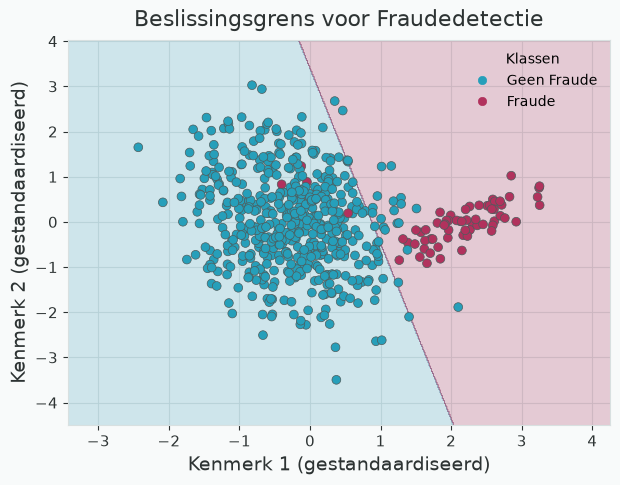
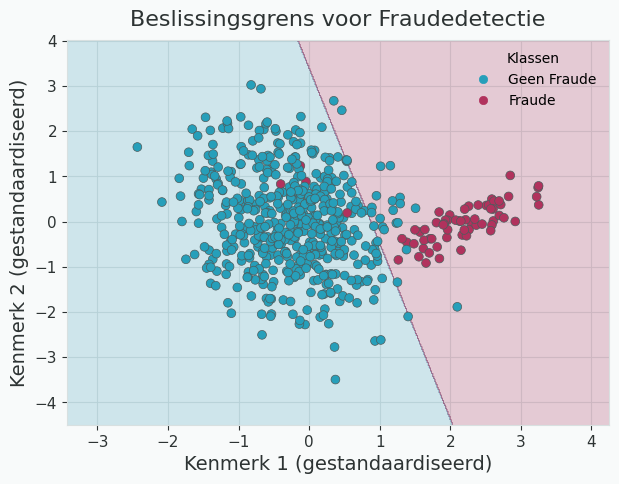
updated structure to create other things programmatically

diff --git a/CCPlots/config/palette.py b/CCPlots/config/palette.py
@@ -2,7 +2,9 @@
 ``CCPlots.config.palette`` — Bitroot colour palette and visual styling tools.
 
 **What this controls:**
-- The shared colour palette (``BITROOT_PALETTE``) used by every plot.
+- The shared colour palette (``BITROOT_PALETTE``) used by every plot.  The
+  palette is loaded from ``bitroot.json`` (the single source of truth derived
+  from the Bitroot design system).
 - Colour derivation helpers (``tint_color``, ``shade_color``).
 - The ``apply_bitroot_style()`` function that applies Bitroot theme defaults
   (background, grid, spine colours, tick parameters) to a matplotlib Axes.
@@ -14,27 +16,29 @@ Approach to colouring implemented from: https://maketintsandshades.com/about/.
 
 **Scope: global.** Changes here affect every plot in the library.
 Use ``CCPlots/plot_configs/*.json`` to tweak per-example settings instead.
+
+To add or update a colour, edit ``bitroot.json`` — do NOT hard-code hex values
+in this module.
 """
 
+import json
+import os
 import re
 import matplotlib.colors as mcolors
 import matplotlib.pyplot as plt
 
+# ── Load palette from the shared JSON config ──────────────────────────────
+
+_CONFIG_PATH = os.path.join(os.path.dirname(__file__), "bitroot.json")
+
+with open(_CONFIG_PATH, encoding="utf-8") as _f:
+    _BITROOT_CONFIG = json.load(_f)
+
+_COLORS: dict[str, dict[str, str]] = _BITROOT_CONFIG["colors"]
+
+# Build the flat hex dict from the canonical DESIGN.md colour names.
 BITROOT_PALETTE: dict[str, str] = {
-    "primary": "#269FBA",
-    "secondary": "#5C78D9",
-    "tertiary": "#A3D979",
-    "highlight": "#B1325D",
-    "success": "#3DB873",
-    "warning": "#D4A843",
-    "error": "#C94A3E",
-    "info": "#4D8FC9",
-    "text": "#2D3333",
-    "secondary_text": "#4D5C5C",
-    "background": "#F8FAFA",
-    "card_background": "#FFFFFF",
-    "white": "#F2F5F5",
-    "grid": "#D8E0E0",
+    name: entry["hex"] for name, entry in _COLORS.items()
 }
 
 _TINT_RE = re.compile(r"^(\w+)@tint\(([\d.]+)\)$")
@@ -112,7 +116,7 @@ def contrasting_text_color(bg_color: str,
         Otherwise uses the 4.5:1 normal-text threshold.
     """
     bg = resolve_palette_key(bg_color)
-    dk = resolve_palette_key(dark_text) if dark_text else BITROOT_PALETTE["text"]
+    dk = resolve_palette_key(dark_text) if dark_text else BITROOT_PALETTE["on-surface"]
     lt = resolve_palette_key(light_text) if light_text else BITROOT_PALETTE["white"]
 
     ratio_dk = _contrast_ratio(bg, dk)
@@ -180,9 +184,9 @@ def apply_bitroot_style(ax=None, *, background=None, text=None, grid=None, title
     if ax is None:
         ax = plt.gca()
 
-    _bg = resolve_palette_key(background) if background else BITROOT_PALETTE["background"]
-    _text = resolve_palette_key(text) if text else BITROOT_PALETTE["text"]
-    _grid = resolve_palette_key(grid) if grid else BITROOT_PALETTE["grid"]
+    _bg = resolve_palette_key(background) if background else BITROOT_PALETTE["surface"]
+    _text = resolve_palette_key(text) if text else BITROOT_PALETTE["on-surface"]
+    _grid = resolve_palette_key(grid) if grid else BITROOT_PALETTE["border"]
 
     ax.set_facecolor(_bg)
     figure = ax.figure

diff --git a/CCPlots/implementation/Classification.py b/CCPlots/implementation/Classification.py
@@ -48,14 +48,14 @@ class Classification(PlotExample):
         ])
         self.boundary_cmap = mcolors.LinearSegmentedColormap.from_list(
             "bitroot_boundary",
-            [BITROOT_PALETTE["background"],
+            [BITROOT_PALETTE["surface"],
              self.resolve_color("boundary_region_0"),
              self.resolve_color("boundary_region_1")],
             N=256,
         )
         self.confusion_cmap = mcolors.LinearSegmentedColormap.from_list(
             "bitroot_confusion",
-            [BITROOT_PALETTE["background"],
+            [BITROOT_PALETTE["surface"],
              self.resolve_color("confusion_cmap_pale"),
              self.resolve_color("confusion_cmap")],
             N=256,
@@ -91,9 +91,9 @@ class Classification(PlotExample):
         cm = confusion_matrix(self.y_test, y_pred)
 
         cfigsize = self.config.panel_figsize("confusion_matrix")
-        fig = plt.figure(figsize=cfigsize, facecolor=BITROOT_PALETTE['background'])
+        fig = plt.figure(figsize=cfigsize, facecolor=BITROOT_PALETTE['surface'])
         ax = plt.gca()
-        ax.set_facecolor(BITROOT_PALETTE['card_background'])
+        ax.set_facecolor(BITROOT_PALETTE['white'])
         disp = ConfusionMatrixDisplay(confusion_matrix=cm, display_labels=self.classifier.classes_)
         disp.plot(cmap=self.confusion_cmap, values_format="d", ax=ax)
         self.apply_labels(ax, title=title, xlabel=xlabel, ylabel=ylabel)
@@ -115,7 +115,7 @@ class Classification(PlotExample):
                 ax.text(col, row - 0.28, desc, ha='center', va='center',
                         fontsize=7, color=text_color)
 
-        self.apply_style(ax, background=BITROOT_PALETTE['card_background'])
+        self.apply_style(ax, background=BITROOT_PALETTE['white'])
         ax.grid(False)
         plt.tight_layout()
         fname = self.config.resolve_output("confusion_matrix", suffix=suffix)

diff --git a/CCPlots/implementation/MissingData.py b/CCPlots/implementation/MissingData.py
@@ -38,7 +38,7 @@ class MissingData(PlotExample):
 
             n_rows, n_cols = display.shape
             fig = plt.figure(figsize=(10, 0.35 * n_rows + 0.6),
-                             facecolor=BITROOT_PALETTE['background'])
+                             facecolor=BITROOT_PALETTE['surface'])
             ax = fig.add_axes([0, 0, 1, 1])
             ax.axis('off')
 
@@ -47,7 +47,7 @@ class MissingData(PlotExample):
             for row_idx in range(n_rows):
                 row_vals = []
                 row_colors = []
-                bg = BITROOT_PALETTE['white'] if row_idx % 2 == 0 else BITROOT_PALETTE['background']
+                bg = BITROOT_PALETTE['white'] if row_idx % 2 == 0 else BITROOT_PALETTE['surface']
                 for col_idx in range(n_cols):
                     val = display.iloc[row_idx, col_idx]
                     if pd.isna(val):
@@ -75,7 +75,7 @@ class MissingData(PlotExample):
 
             for key, cell in table.get_celld().items():
                 row, col = key
-                cell.set_edgecolor(BITROOT_PALETTE['grid'])
+                cell.set_edgecolor(BITROOT_PALETTE['border'])
                 cell.set_linewidth(0.5)
                 if row == 0:
                     cell.set_text_props(color=header_text_color, fontweight='bold')
@@ -90,7 +90,7 @@ class MissingData(PlotExample):
                          fontweight='bold', pad=8)
 
             ax.text(0.5, -0.06, labels["note"], fontsize=8,
-                    color=BITROOT_PALETTE['secondary_text'],
+                    color=BITROOT_PALETTE['on-surface-muted'],
                     ha='center', va='top', transform=ax.transAxes)
 
             fname = self.resolve_output("default", suffix=suffix)

diff --git a/CCPlots/PlotExample.py b/CCPlots/PlotExample.py
@@ -100,12 +100,12 @@ class PlotExample(ABC):
         """
         figsize = figsize or self.config.figsize
         fig, axs = plt.subplots(nrows, ncols, figsize=figsize,
-                                facecolor=BITROOT_PALETTE["background"])
+                                facecolor=BITROOT_PALETTE["surface"])
         if nrows * ncols == 1:
-            axs.set_facecolor(BITROOT_PALETTE["background"])
+            axs.set_facecolor(BITROOT_PALETTE["surface"])
         else:
             for ax in axs.flat:
-                ax.set_facecolor(BITROOT_PALETTE["background"])
+                ax.set_facecolor(BITROOT_PALETTE["surface"])
         return fig, axs
 
     # ------------------------------------------------------------------
@@ -138,8 +138,8 @@ class PlotExample(ABC):
 
     @property
     def text_color(self) -> str:
-        """Convenience shortcut for ``BITROOT_PALETTE['text']``."""
-        return BITROOT_PALETTE["text"]
+        """Convenience shortcut for ``BITROOT_PALETTE['on-surface']``."""
+        return BITROOT_PALETTE["on-surface"]
 
     def text_color_for_background(self, bg_color: str, *, large: bool = False) -> str:
         """Return ``text`` or ``white`` — whichever gives better WCAG AA

diff --git a/CCPlots/implementation/MultivariateRegression.py b/CCPlots/implementation/MultivariateRegression.py
@@ -38,10 +38,10 @@ class MultivariateRegression(PlotExample):
         with warnings.catch_warnings():
             warnings.simplefilter("ignore")
             for _locale, labels, suffix in self.iter_locales():
-                fig = plt.figure(figsize=self.config.figsize, facecolor=BITROOT_PALETTE['background'])
+                fig = plt.figure(figsize=self.config.figsize, facecolor=BITROOT_PALETTE['surface'])
                 ax = fig.add_subplot(111, projection='3d')
                 fig.subplots_adjust(left=0.05, right=0.95, top=0.92, bottom=0.05)
-                ax.set_facecolor(BITROOT_PALETTE['background'])
+                ax.set_facecolor(BITROOT_PALETTE['surface'])
                 ax.set_xlim(min(house_sizes) - 100, max(house_sizes) + 100)
                 ax.set_ylim(min(num_rooms) - 1, max(num_rooms) + 1)
                 ax.set_zlim(min(prices) - 10000, max(prices) + 10000)

diff --git a/CCPlots/implementation/KNearest.py b/CCPlots/implementation/KNearest.py
@@ -35,10 +35,10 @@ class KNearest(PlotExample):
                     np.random.randn(100) * 10000)
 
         for _locale, labels, suffix in self.iter_locales():
-            fig = plt.figure(figsize=self.config.figsize, facecolor=BITROOT_PALETTE['background'])
+            fig = plt.figure(figsize=self.config.figsize, facecolor=BITROOT_PALETTE['surface'])
             ax = cast(Axes3D, fig.add_subplot(111, projection='3d'))
             fig.subplots_adjust(left=0.05, right=0.95, top=0.92, bottom=0.05)
-            ax.set_facecolor(BITROOT_PALETTE['background'])
+            ax.set_facecolor(BITROOT_PALETTE['surface'])
             ax.set_xlim(min(house_sizes) - 100, max(house_sizes) + 100)
             ax.set_ylim(min(num_rooms) - 1, max(num_rooms) + 1)
             ax.set_zlim(min(prices) - 10000, max(prices) + 10000)

diff --git a/CCPlots/implementation/LogisticRegression.py b/CCPlots/implementation/LogisticRegression.py
@@ -45,7 +45,7 @@ class LogisticRegression(PlotExample):
     @property
     def cmap_light(self):
         return ListedColormap([
-            to_rgba(BITROOT_PALETTE["background"], alpha=0.0),
+            to_rgba(BITROOT_PALETTE["surface"], alpha=0.0),
             to_rgba(self.resolve_color('decision_boundary'), alpha=0.25),
         ])
 
